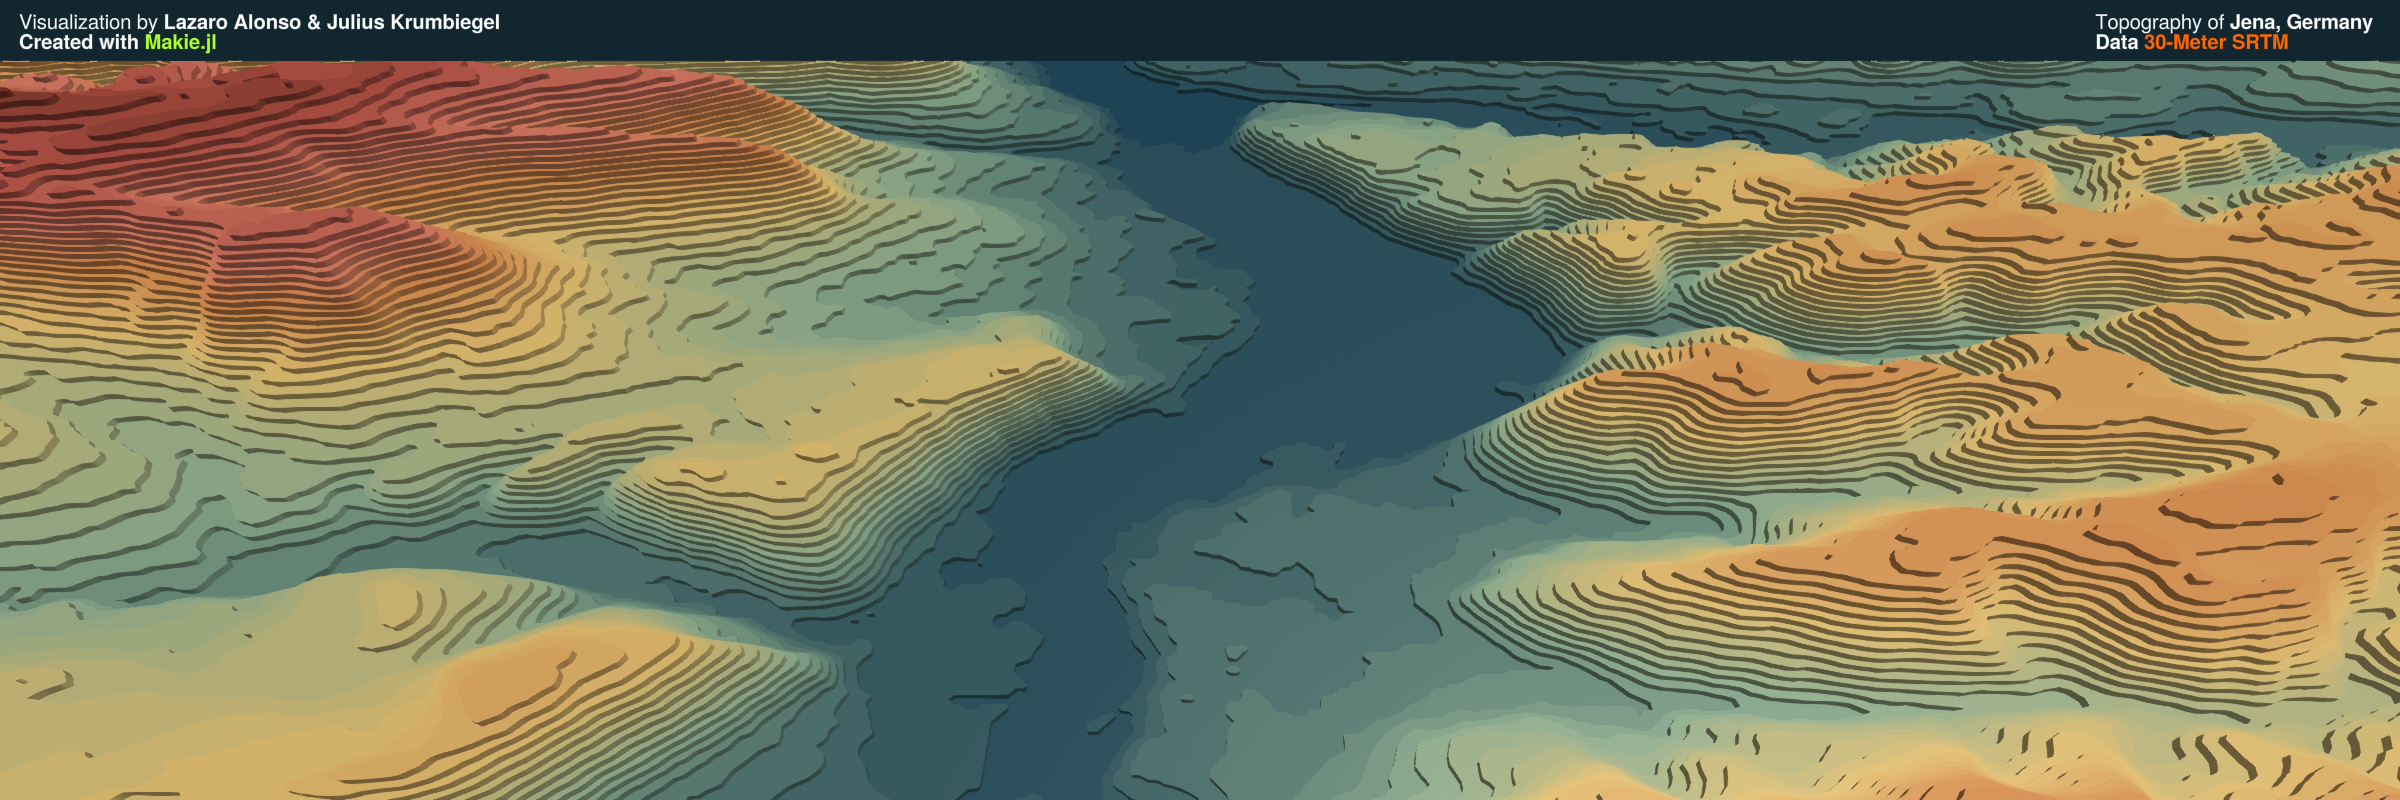
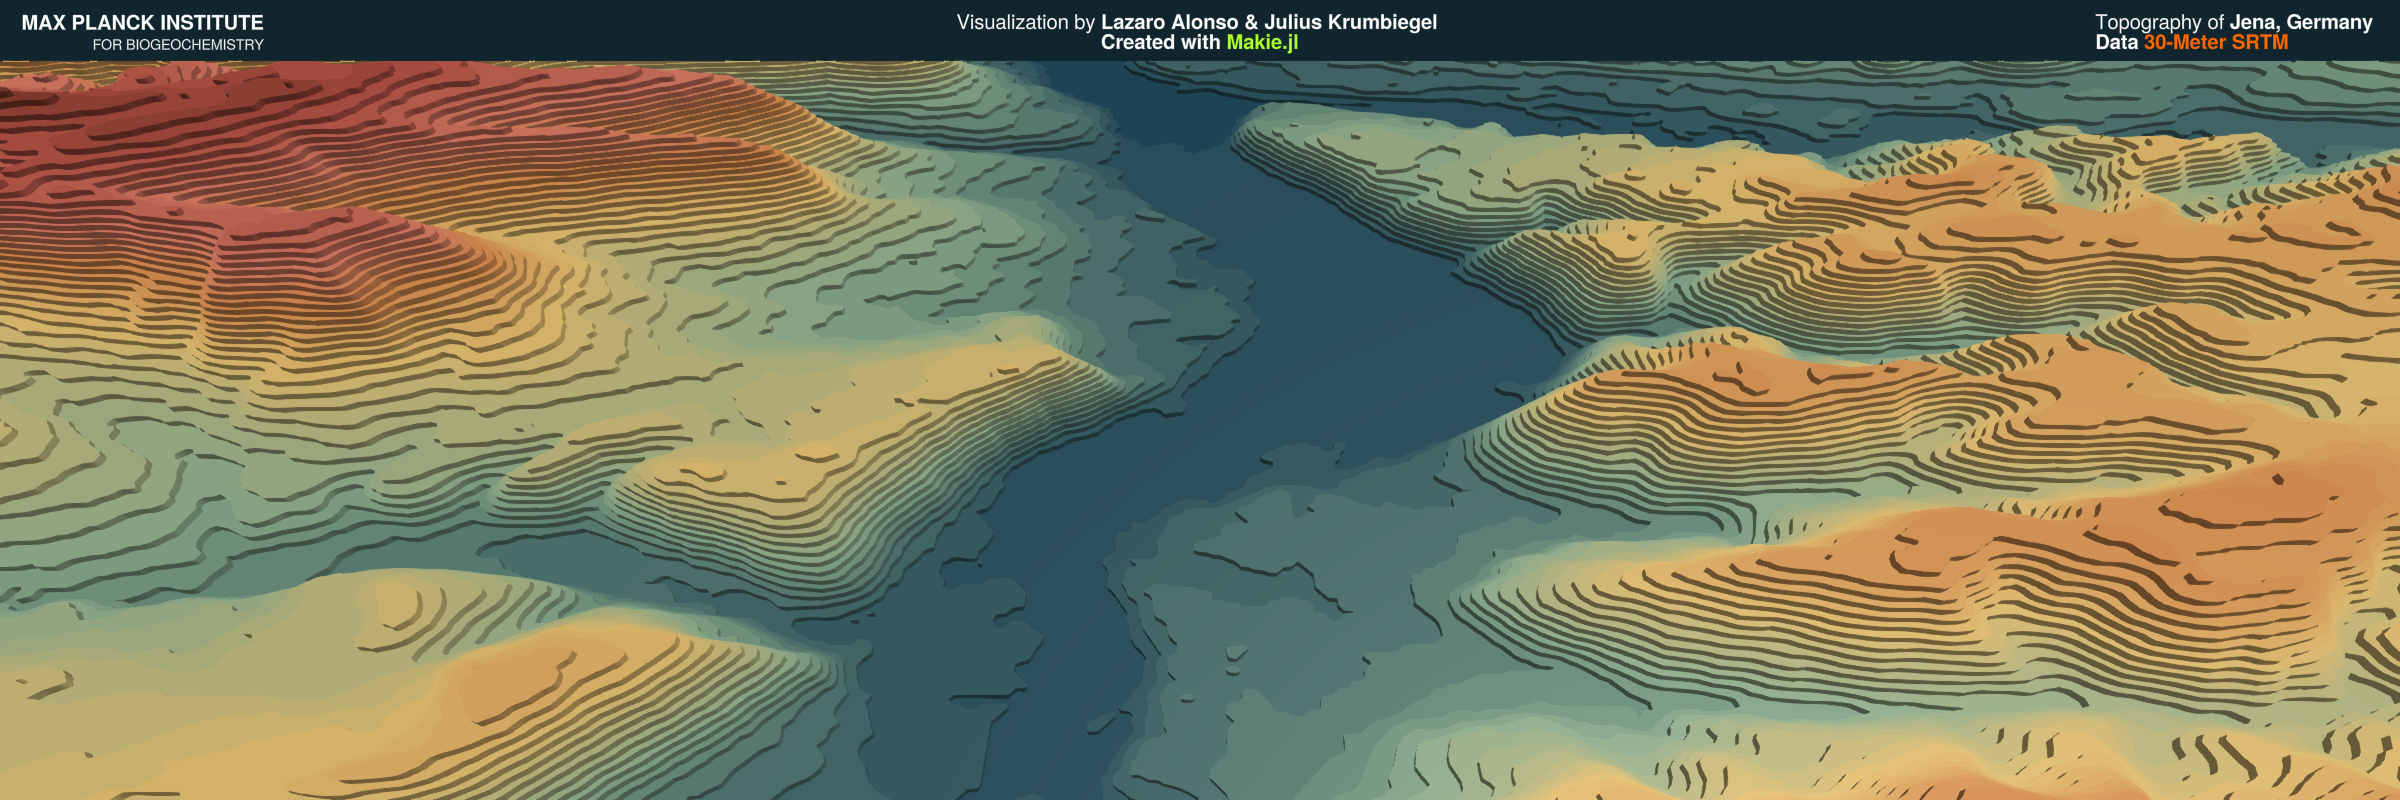
rpr version

Changed region(s): [[0.0, 0.0, 0.2188, 0.0625], [0.4062, 0.0, 0.5938, 0.0625]]

diff --git a/README.md b/README.md
@@ -22,7 +22,7 @@ Data: t2m-ERA5: ECMWCF
 ## Topography of Jena, Germany
 
 <p float="center">
-  <img src="imgs/elevation_jena.png" width="90%" /> 
+  <img src="imgs/elevation_jena_rpr.png" width="90%" /> 
 </p>
 
 Data: 30-Meter SRTM
